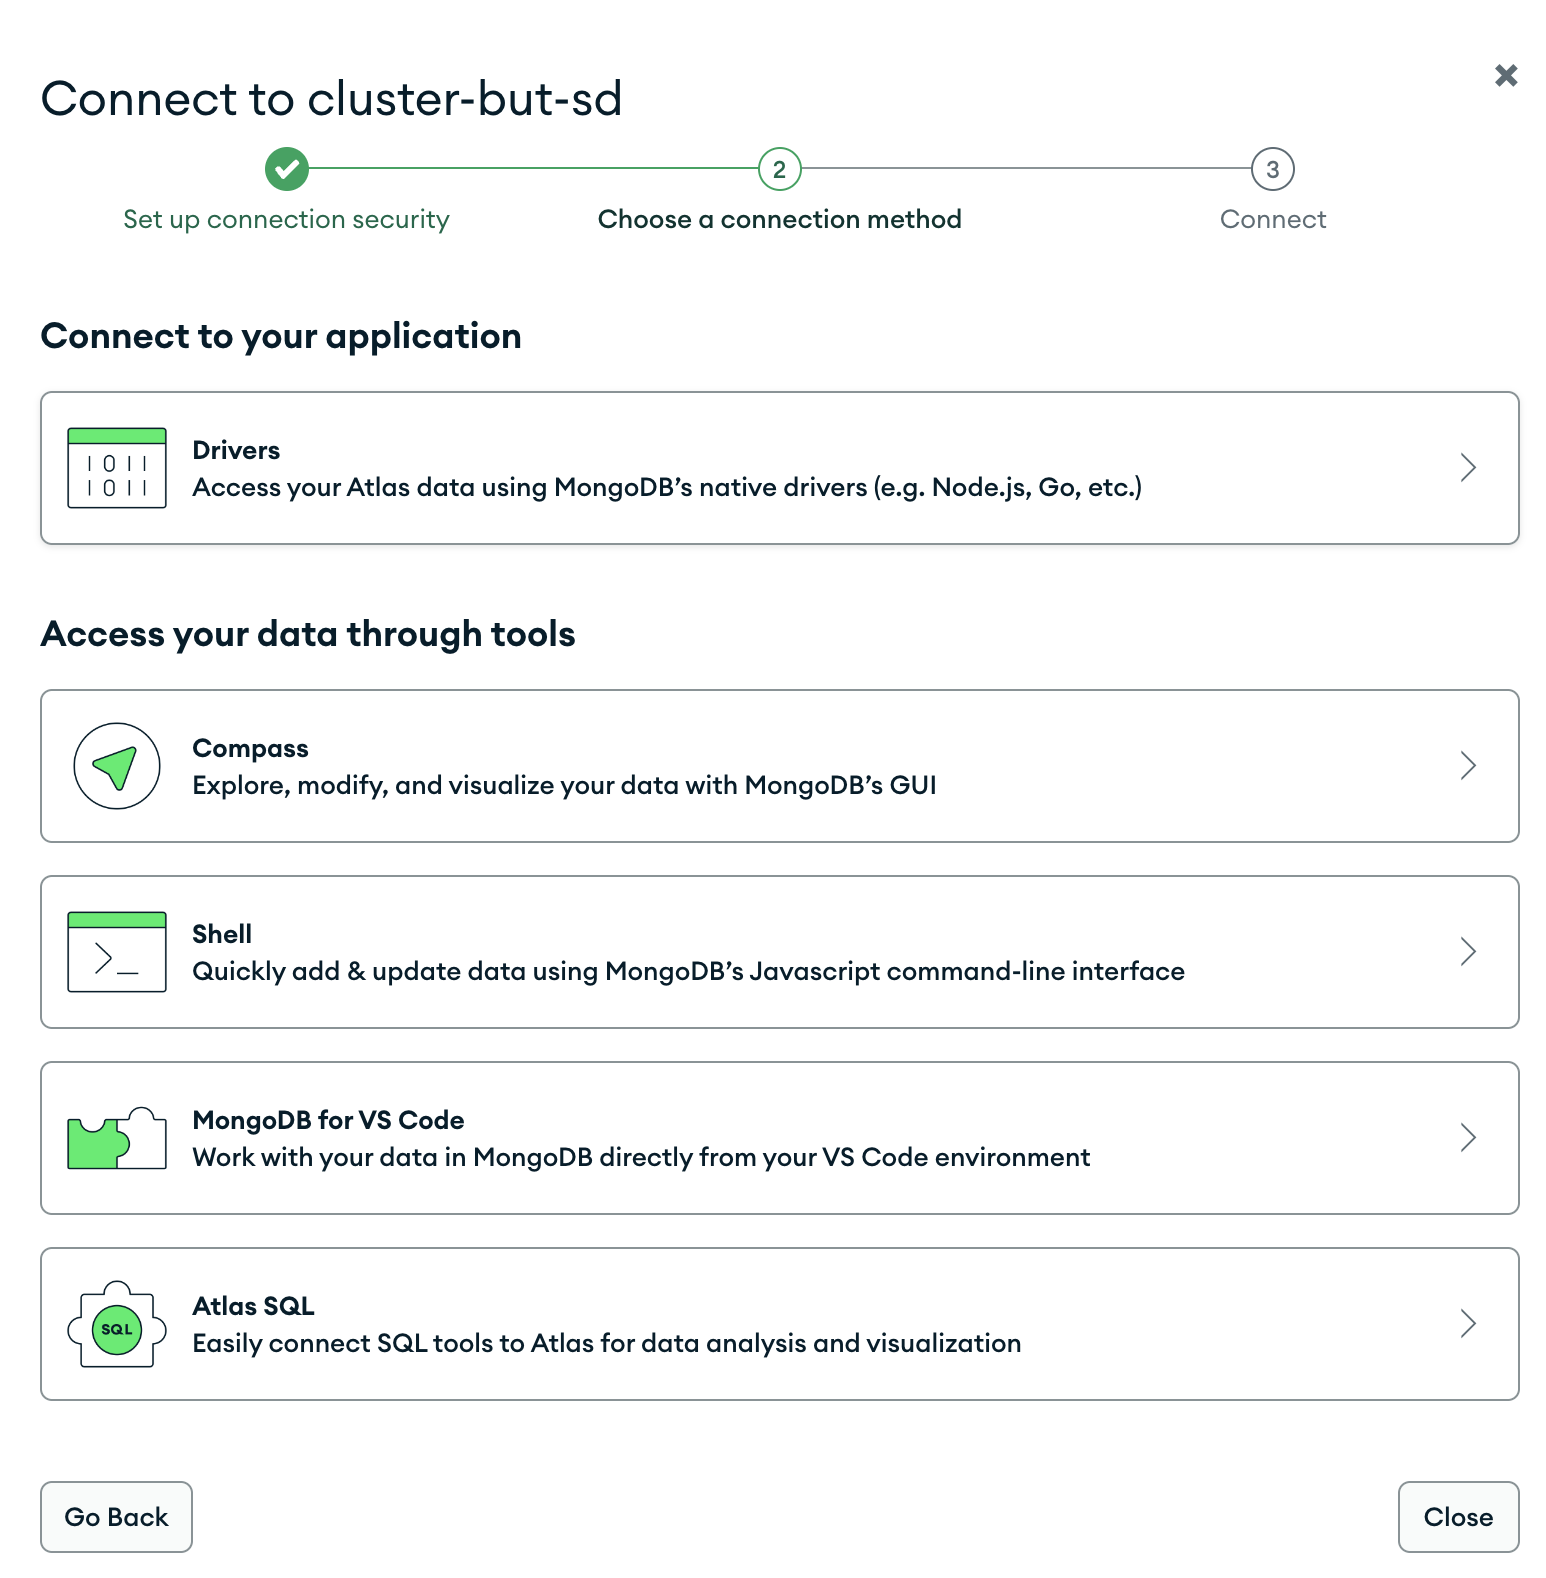
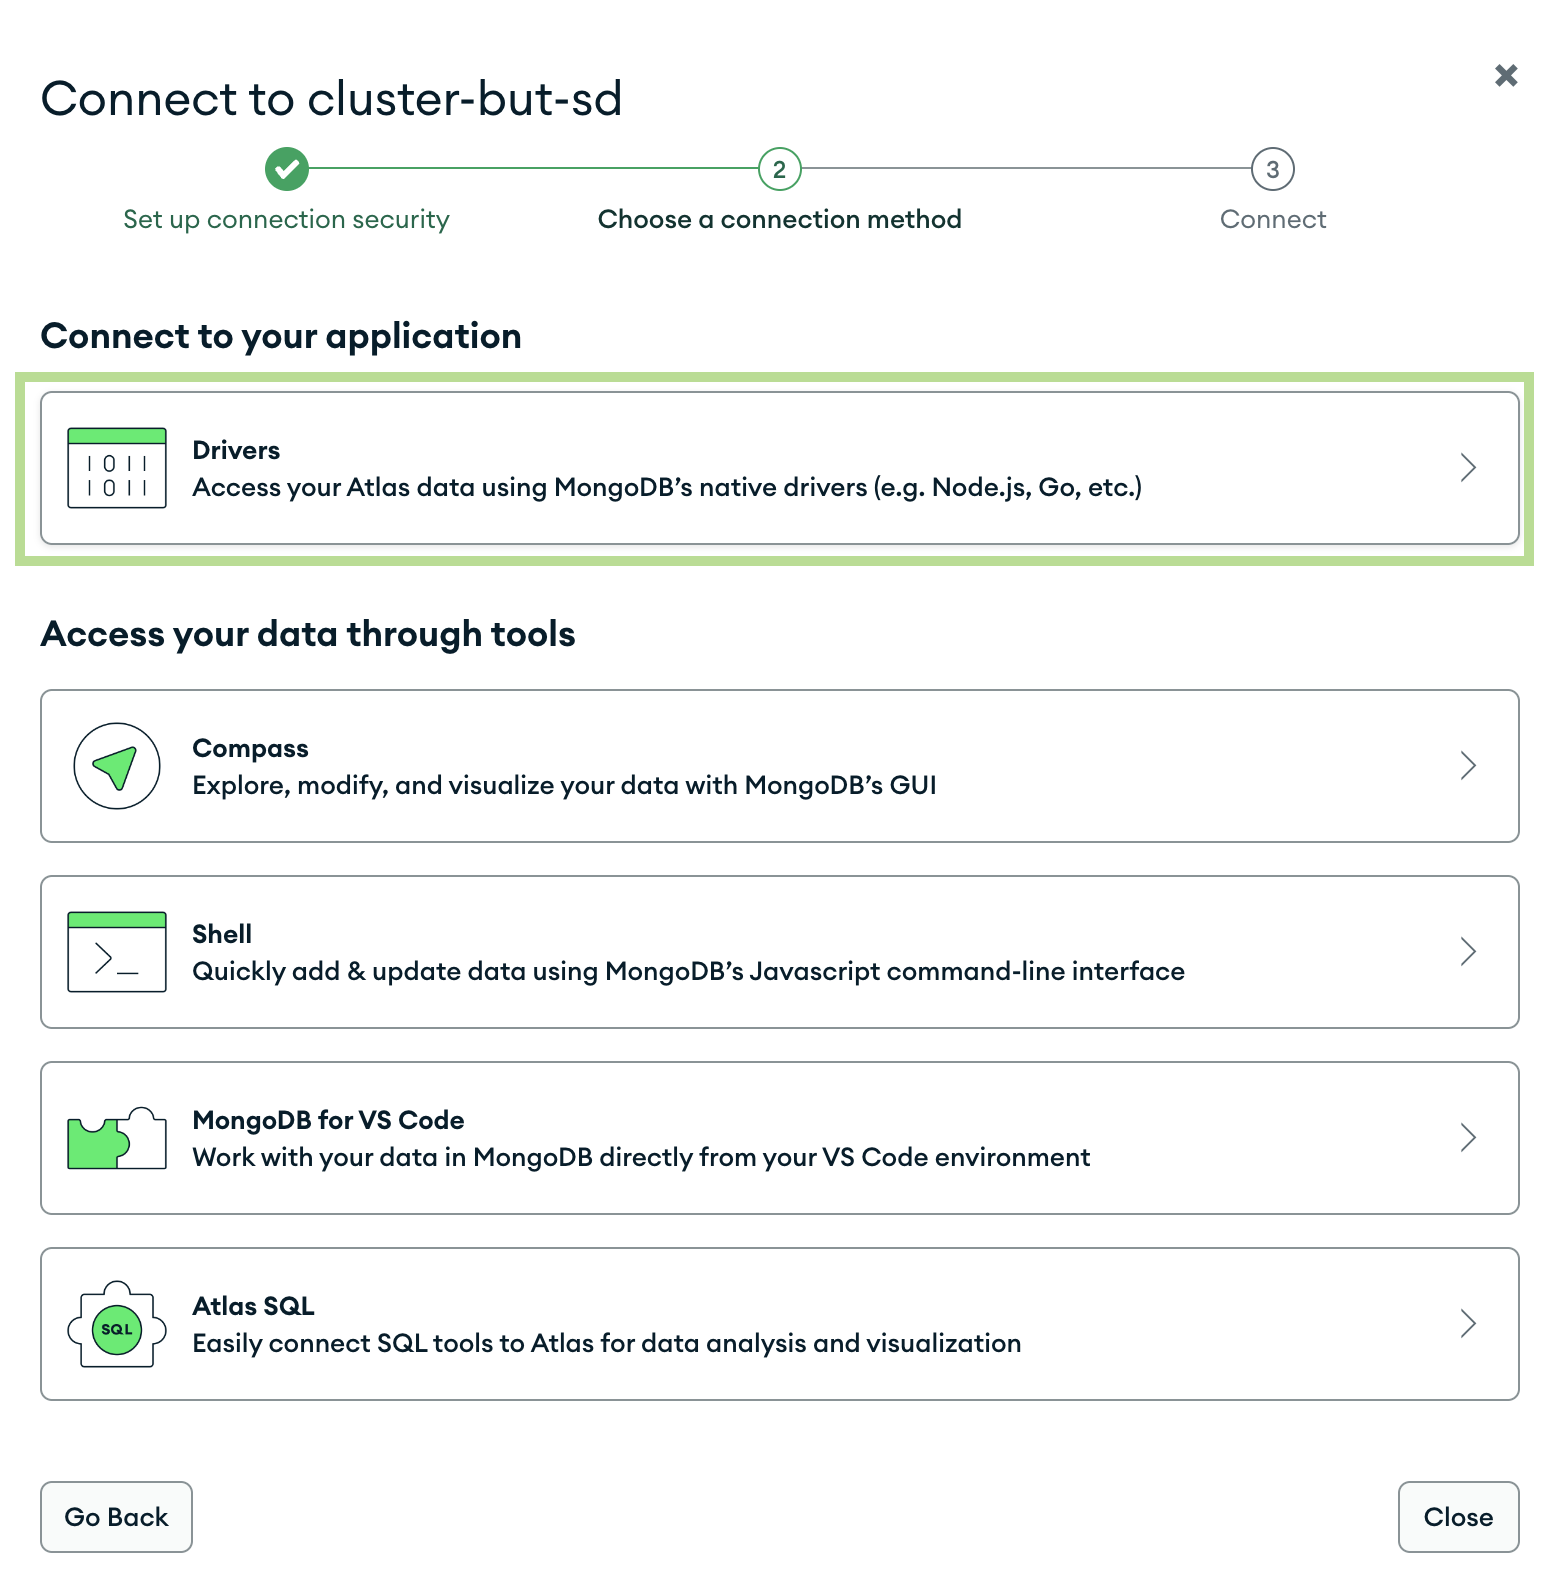
chore: merge MongoDB pages

Changed region(s): [[0.0, 0.2174, 0.9935, 0.3726]]

diff --git a/_formations/but/but3/nosql/1_mongodb.md b/_formations/but/but3/nosql/1_mongodb.md
@@ -48,40 +48,114 @@ La seconde introduit les agrégations et propose des questions plus complexes.
 
 Dans un premier temps, nous allons installer MongoDB Compass qui est une interface permettant de visualiser les données.
 
-## 1.1 Installation de MongoDB Compass
+## 1.1 Configuration de la base de données 
+
+> :warning: Nous allons créer un serveur MongoDB, merci de NE PAS CHANGER les noms mentionnés ci-dessous (nom de l'utilisateur, nom de la collection, etc.)
+{:.block-warning}
+
+### Création du compte Atlas
+
+Nous allons créer un [compte Atlas](https://account.mongodb.com/account/register?signedOut=true) afin de pouvoir héberger une base de données MongoDB.
+
+### Création d'un projet Atlas
+
+Une fois que vous avez créé votre compte vous allez pouvoir créer un projet, nommé `but-sd` ici. Ensuite, une page demandera d'ajouter des membres, il n'y a rien à faire. Confirmez simplement la création du projet en cliquant sur **Create project**.
+
+{% include figure.liquid loading="eager" path="assets/img/but/but3/nosql/creation-project.png" title="MongoDB" class="img-fluid rounded z-depth-1 mx-auto d-block" max-width="650px"%}
+
+### Création d'un utilisateur Atlas
+
+Une fois ceci fait on aura besoin de créer un utilisateur, afin de pouvoir requêter la base de données. Pour cela, dans le menu à gauche, cliquez sur **Database access**.
+
+{% include figure.liquid loading="eager" path="assets/img/but/but3/nosql/create-user.png" title="MongoDB" class="img-fluid rounded z-depth-1 mx-auto d-block"%}
+
+Une fois sur la page des **Database access** cliquez sur **Add new database user** afin d'ajouter un utilisateur de la base de données. Cela ouvrira un nouvel onglet comme ci-dessous. Il faudra ainsi définir son nom, son mot de passe et son rôle. Dans notre cas, nous appelerons notre utilisateur `user_mongo` et nous générerons le mot de passe aléatoirement en cliquant sur **Autogenerate Secure Password**. Enfin, nous lui assignerons le rôle d'administrateur Atlas.
+
+{% include figure.liquid loading="eager" path="assets/img/but/but3/nosql/creation-user.png" title="MongoDB" class="img-fluid rounded z-depth-1 mx-auto d-block" max-width="650px"%}
+
+> :warning: Pensez à bien enregistrer le mot de passe dans un endroit sécurisé de votre ordinateur.
+{:.block-warning}
+
+Une fois ceci fait vous aurez la vue suivante : 
+
+{% include figure.liquid loading="eager" path="assets/img/but/but3/nosql/user-created.png" title="MongoDB" class="img-fluid rounded z-depth-1 mx-auto d-block"%}
+
+### Création d'un cluster Atlas
+
+Maintenant nous pouvons créer un cluster qui hébergera notre base de données.
+
+{% include figure.liquid loading="eager" path="assets/img/but/but3/nosql/create-cluster.png" title="MongoDB" class="img-fluid rounded z-depth-1 mx-auto d-block"%}
+
+Nous prenons l'instance M0 qui est gratuite et donnons un nom à cette dernière, ici `cluster-but-sd`. Il n'y a pas besoin de changer les autres paramètres.
+
+{% include figure.liquid loading="eager" path="assets/img/but/but3/nosql/creation-cluster.png" title="MongoDB" class="img-fluid rounded z-depth-1 mx-auto d-block" max-width="650px"%}
+
+### Ajout de l'IP
+
+Parfois, la connexion au cluster échoue. Pour palier ce problème, nous allons permettre que le cluster se connecter à notre IP.
+
+{% include figure.liquid loading="eager" path="assets/img/but/but3/nosql/mongo-add-ip-access-list.png" title="MongoDB" class="img-fluid rounded z-depth-1 mx-auto d-block"%}
+
+{% include figure.liquid loading="eager" path="assets/img/but/but3/nosql/mongo-add-new-ip-access-list.png" title="MongoDB" class="img-fluid rounded z-depth-1 mx-auto d-block"%}
+
+
+### Connexion au cluster Atlas
+
+Enfin, la dernière étape consiste à choisir le connecteur à la base de données. Dans notre cas, nous utiliserons l'API Python donc nous sélectionnons **Drivers**.
+
+{% include figure.liquid loading="eager" path="assets/img/but/but3/nosql/connection-method.png" title="MongoDB" class="img-fluid rounded z-depth-1 mx-auto d-block" max-width="650px"%}
+
+Sur la page suivante nous pouvons choisir le type de Driver, Python dans notre cas.
+
+{% include figure.liquid loading="eager" path="assets/img/but/but3/nosql/mongodb-driver.png" title="MongoDB" class="img-fluid rounded z-depth-1 mx-auto d-block" max-width="650px"%}
+
+> Pensez à copier la *connection string*, cela nous servira ensuite à nous connecter en Python à la base de données que nous venons de créer.
+> 
+> La *connection string* par défaut ressemble à : `mongodb+srv://user_mongo:<db_password>@cluster-but-sd.7z6bi.mongodb.net/?retryWrites=true&w=majority&appName=cluster-but-sd`.
+> Il faut bien évidemment changer le mot de passe.
+> 
+> Par exemple si le mot de passe est `1g9dsa9kdaw063` alors la *connection string* sera : `mongodb+srv://user_mongo:1g9dsa9kdaw063@cluster-but-sd.7z6bi.mongodb.net/?retryWrites=true&w=majority&appName=cluster-but-sd` sans les crochets.
+{:.block-example}
+
+## 1.2 Installation de MongoDB Compass
 
 Pour gérer notre base de données, nous allons utiliser [MongoDB Compass](https://www.mongodb.com/try/download/compass).
-Pour cela, cliquez sur le lien pour télécharger **MongoDB Compass Download (GUI)** et suivez les instructions d'installation selon votre OS.
+Cliquez sur le lien pour télécharger **MongoDB Compass Download (GUI)** et suivez les instructions d'installation selon votre OS.
 
 {% include figure.liquid loading="eager" path="assets/img/cnam/mongodb/compass-connection.png" title="Compass connection" class="img-fluid rounded z-depth-1 mx-auto d-block"%}
 
-## 1.2 Configuration de la base de données avec Docker
 
-Commencez par installer [Docker Desktop pour Windows](https://docs.docker.com/desktop/setup/install/windows-install/).
+Maintenant nous allons pouvoir utiliser le cluster créé sur Atlas. Commençons par se connecter à notre instance.
+La connexion va se faire via la *connection string* qui peut être trouvée dans la configuration du cluster Atlas. 
 
-Une fois, Docker Desktop installé, vous pouver ouvrir un terminal et lancer la commande suivante.
-Cette dernière permet de télécharger l’image MongoDB en local.
+> N'oubliez pas de remplacer le mot de passe sur l'image ci-dessous par celui que vous avez enregistré plus haut.
+{:.block-warning}
 
-```shell
-docker pull mongodb/mongodb-community-server:latest
-```
+{% include figure.liquid loading="eager" path="assets/img/but/but3/nosql/compass-add-connection.png" title="MongoDB" class="img-fluid rounded z-depth-1 mx-auto d-block" max-width="650px"%}
 
-Puis exécuter le serveur `mongodb` en local.
+Une fois ceci fait, nous allons créer une base de données appelée `tp` qui contiendra une collection nommée `restaurants`.
 
-```shell
-docker run --rm --name mongodb -d -p 27017:27017 mongodb/mongodb-community-server
-```
+{% include figure.liquid loading="eager" path="assets/img/but/but3/nosql/create-database.png" title="MongoDB" class="img-fluid rounded z-depth-1 mx-auto d-block"%}
 
-À la fin du TP, vous pouvez supprimer la base de données grâce à la commande suivante.
+## Import des données
 
-```shell
-docker stop mongodb
-```
+Ensuite, il suffit d'importer le fichier JSON qui se situe [ici](https://github.com/aldevgen/data/blob/main/json/restaurants.json).
+
+{% include figure.liquid loading="eager" path="assets/img/but/but3/nosql/telecharger-fichier.png" title="MongoDB" class="img-fluid rounded z-depth-1 mx-auto d-block"%}
+
+Puis de l'importer dans MongoDB Compass :
+
+{% include figure.liquid loading="eager" path="assets/img/but/but3/nosql/import-data.png" title="MongoDB" class="img-fluid rounded z-depth-1 mx-auto d-block"%}
+
 
 ## 1.3 Utilisation du template
 
 Pour faciliter les TPs, un notebook de template est disponible pour réaliser ce TP ainsi que les suivants.
 Vous pouvez réalisez un fork du projet [GitHub](https://github.com/aldevgen/but3-formation-nosql-tp).
+
+{% include figure.liquid loading="eager" path="assets/img/but/but3/nosql/git-fork.png" title="Git fork" class="img-fluid rounded z-depth-1 mx-auto d-block"%}
+
+{% include figure.liquid loading="eager" path="assets/img/but/but3/nosql/git-create-fork.png" title="Git fork" class="img-fluid rounded z-depth-1 mx-auto d-block"%}
 
 ---
 
